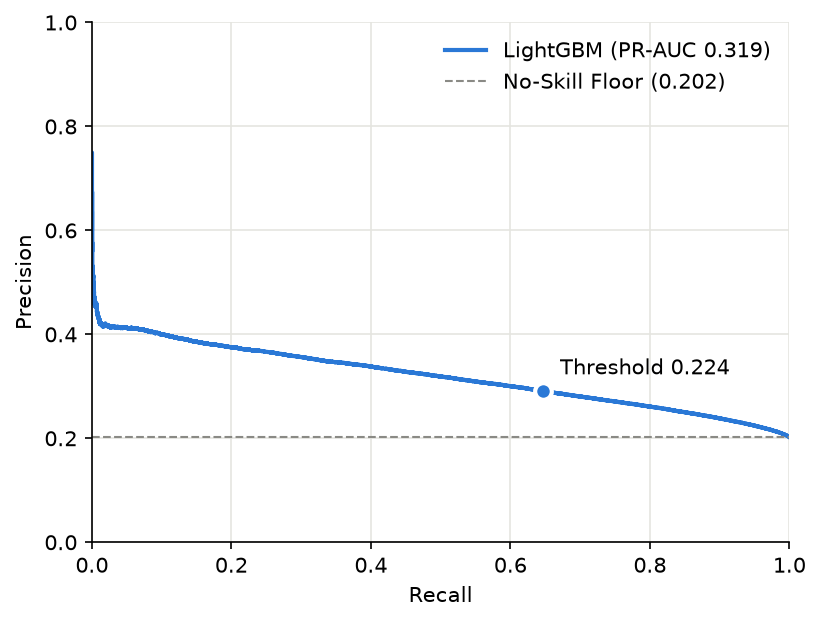
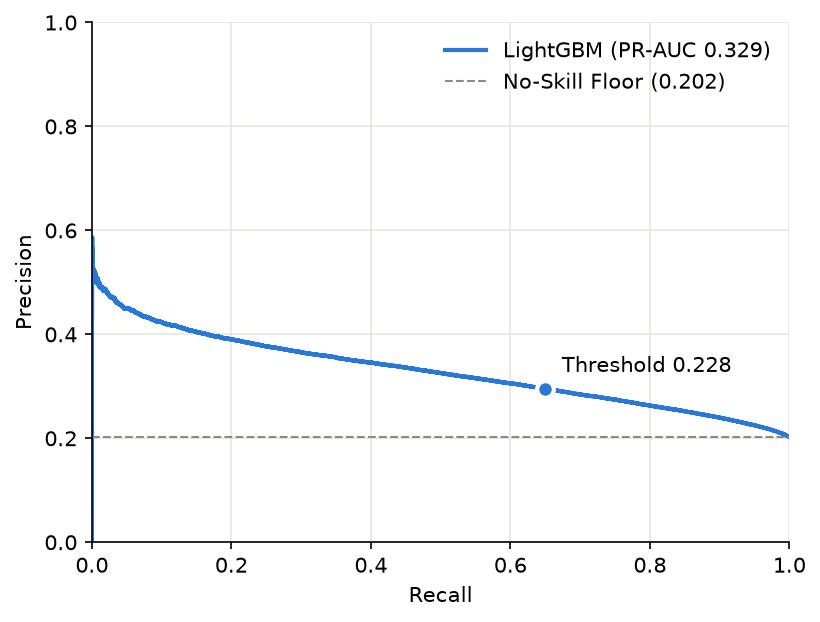
MOD-3: hyperopt results (90 trials), trial 26 final (val PR-AUC 0.329)

diff --git a/docs/findings.md b/docs/findings.md
@@ -18,10 +18,14 @@ scored yet (EVAL-4).
 | MOD-1 logistic regression | 0.315 | 1.56 | 0.393 | 0.3% |
 | MOD-2 XGBoost, default settings | 0.320 | 1.59 | 0.402 | 12.4% |
 | **MOD-2 XGBoost, tuned** | **0.332** | **1.64** | **0.407** | 8.3% |
+| MOD-3 LightGBM, default settings | 0.319 | 1.58 | 0.402 | 13.6% |
+| MOD-3 LightGBM, tuned | ⟨after search⟩ | ⟨after search⟩ | ⟨after search⟩ | ⟨after search⟩ |
 
 Sources: `reports/logistic_regression/mod1_metrics.json`,
 `git show 5363871:reports/xgboost/mod2_metrics.json` (default run),
-`reports/xgboost/mod2_metrics.json` (tuned). "× no-skill" is
+`reports/xgboost/mod2_metrics.json` (tuned),
+`git show 16fd05d:reports/lightgbm/mod3_metrics.json` (MOD-3 default run),
+`reports/lightgbm/mod3_metrics.json` (MOD-3 tuned). "× no-skill" is
 `pr_auc_over_floor`; the gap is train ÷ validation `pr_auc_over_floor` − 1.
 
 ---
@@ -207,10 +211,182 @@ All in `reports/xgboost/figures/`:
 
 ---
 
-## Experiments on MOD-2
+## MOD-3: LightGBM
 
-Filled in as each one is resolved.
+**Question:** with the same features, encoding, and splits as MOD-2, how does
+LightGBM compare with XGBoost in validation PR-AUC, F1, overfitting, and
+training time? Only the algorithm changes.
 
-- **EXP-7** (early stopping on PR-AUC instead of log loss): ⟨not run yet⟩
-- **EXP-8** (drop `DayofMonth`): ⟨not run yet⟩
-- **EXP-9** (ordinal vs. category time blocks): ⟨not run yet⟩
+### Setup
+
+Same as MOD-2: 13 base features, the same `encode()` (pandas `category`
+columns, validation re-coded to train's category list), train on Jul 2025 – Mar
+2026, score on validation, test not scored, early stopping on validation log
+loss after 50 rounds, tree cap 6,000. What differs:
+
+- **How trees grow.** XGBoost grows each tree level by level, so `max_depth`
+  sets its size. LightGBM grows **leaf by leaf**: it always splits the one leaf
+  that reduces the loss most, so trees can be deep and uneven. Size is set by
+  **`num_leaves`** instead; `max_depth` stays at −1 (no limit). For scale, MOD-2's
+  tuned depth of 5 allows at most 32 leaves, about LightGBM's default of 31.
+- **Minimum leaf size is a row count.** LightGBM's `min_child_samples` counts
+  rows per leaf. XGBoost's `min_child_weight` is a sum of hessians, p(1 − p) per
+  row, about 0.16 at our ~20% late rate, so the two are on different scales.
+- **No L2 penalty by default.** LightGBM's default `reg_lambda` is 0 (XGBoost's
+  is 1). MOD-2's search found that more L2 helped, so the default run starts with
+  none.
+- **Row sampling has to be switched on.** `subsample` does nothing unless
+  `subsample_freq` > 0, so `subsample_freq=1` (resample rows every tree) is a
+  fixed setting. With `subsample=1.0` the default run still uses every row.
+- **Early stopping is a callback.** `lgb.early_stopping(50)` is passed to
+  `fit()` and watches validation only (the training set in the eval list is
+  ignored for stopping; it is there to record train log loss).
+  `lgb.log_evaluation(100)` prints scores every 100 rounds. Eval sets are passed
+  as `eval_X`/`eval_y` because `eval_set` is deprecated in LightGBM 4.7.
+- **Tree counts are stored 0-based, like XGBoost.** LightGBM's
+  `best_iteration_` counts from 1 and XGBoost's from 0, so MOD-3's JSON stores
+  `best_iteration_ − 1`. For both models: trees kept = `best_iteration` + 1, and
+  `rounds_trained` = trees kept + 50 patience rounds. The model itself is not
+  changed; `predict_proba` still uses all kept trees.
+- **Training time** (`train_seconds`) times `fit()` only: not data loading,
+  scoring, or W&B logging. Both libraries use all CPU cores by default and also
+  compute train and validation log loss every round.
+- **Unseen airports (PRE-6, test only).** A LightGBM categorical split lists the
+  categories that go left; **everything else goes right, including missing
+  values**. XGBoost instead learns a default direction for missing values at
+  each split. LightGBM also stores train's category list and silently turns an
+  unseen label into missing, where XGBoost raises an error. Checked on a toy
+  model: a missing value and an unseen label `Z` both got the prediction of the
+  "everything else" side. MOD-3 still uses `encode()`, so both models get
+  identical input.
+
+### Step 1: default settings overfit about as much as XGBoost's
+
+LightGBM's defaults: `learning_rate` 0.1, `num_leaves` 31, `min_child_samples`
+20, `reg_lambda` 0, no row or column sampling, `max_cat_threshold` 32,
+`cat_smooth` 10.
+
+Validation log loss was lowest at **round 60** (0.47610). Training continued
+for the 50-round patience window and stopped after round 110. At round 100,
+train log loss was still falling (0.4908 → 0.4858) while validation had turned
+slightly up (0.47610 → 0.47634): the same overfitting shape as XGBoost's
+default, later because the learning rate is smaller (0.1 vs. 0.3).
+
+```
+train_logloss █▇▇▇▆▅▄▄▄▄▃▃▃▃▃▃▃▂▂▂▂▂▂▂▂▂▂▂▂▂▂▂▁▁▁▁▁▁▁▁   falls every round
+  val_logloss █▇▆▄▃▂▂▂▂▂▁▁▁▁▁▁▁▁▁▁▁▁▁▁▁▁▁▁▁▁▁▁▁▁▁▁▁▁▁▁   flattens; the rise after round 60 is too small to show
+```
+
+**Validation log loss below train does not mean "no overfitting".** It is 0.476
+vs. 0.491 only because April has fewer late flights (20.2% vs. 22.4%), the same
+effect as in EVAL-3. The `pr_auc_over_floor` gap, which adjusts for each split's
+late rate, is **13.6%**, slightly above XGBoost's default 12.4%.
+
+| | MOD-1 | MOD-2 default | MOD-3 default |
+|---|---|---|---|
+| Validation PR-AUC | 0.315 | 0.320 | 0.319 |
+| `pr_auc_over_floor` (validation) | 1.562 | 1.585 | 1.578 |
+| F1 | 0.393 | 0.402 | 0.402 |
+| Threshold | 0.233 | 0.222 | 0.224 |
+| Precision / recall | 0.288 / 0.621 | 0.290 / 0.656 | 0.291 / 0.647 |
+| `pr_auc_over_floor` train vs. validation | 1.567 / 1.562 | 1.782 / 1.585 | 1.793 / 1.578 |
+| Gap | 0.3% | 12.4% | 13.6% |
+| Trees kept | — | 18 | 60 |
+| Training time | — | not recorded | 8.5 s (110 rounds, 0.077 s/round) |
+
+Source: `git show 16fd05d:reports/lightgbm/mod3_metrics.json`, W&B run
+`xr932vla`.
+
+- **With defaults, the two libraries are tied** on PR-AUC (0.319 vs. 0.320) and
+  F1 (0.402 for both).
+- **As with MOD-2, the gap is not caused by too many trees.** Early stopping
+  already kept only the best 60. The fix has to come from the tree settings:
+  smaller trees, larger minimum leaf size, more L2. That is what the search
+  covers.
+
+### Step 2: hyperparameter search
+
+Hyperopt TPE, 90 trials (the same budget as MOD-2), maximizing validation
+PR-AUC. Each trial is logged to W&B as `MOD-3` with tag `hyperopt-trial`, and
+all trials are exported to `reports/lightgbm/mod3_trials.csv`. Same 7 settings
+as MOD-2, using LightGBM's equivalents and the same ranges where they exist:
+
+| Hyperparameter | Range searched | Best trial (#⟨n⟩) | Default |
+|---|---|---|---|
+| `learning_rate` | 0.02 – 0.3 (log) | ⟨⟩ | 0.1 |
+| `num_leaves` (replaces `max_depth`) | 15 – 255 (log, integer) | ⟨⟩ | 31 |
+| `min_child_samples` (replaces `min_child_weight`) | 20 – 2,000 (log, integer) | ⟨⟩ | 20 |
+| `subsample` | 0.5 – 1.0 | ⟨⟩ | 1.0 |
+| `colsample_bytree` | 0.5 – 1.0 | ⟨⟩ | 1.0 |
+| `reg_lambda` | 0.1 – 20 (log) | ⟨⟩ | 0 |
+| `max_cat_threshold` | 8 – 128 (step 8) | ⟨⟩ | 32 |
+
+`max_depth` (−1) and `cat_smooth` (10) stay at their defaults.
+
+**Why a log scale for `num_leaves` and `min_child_samples`:** their effect is
+relative. Going from 15 to 30 leaves changes the model far more than going from
+225 to 240. TPE starts with 20 random trials; on a uniform scale only about 6%
+of `num_leaves` draws fall in 15–30 (the size of MOD-2's best trees), and on a
+log scale about 25% do (checked on 2,000 draws).
+
+⟨After the search: what separated the 10 best trials from the 10 worst
+(medians, from `mod3_trials.csv`), when the best score was reached (plateau?),
+how many trials beat MOD-1 / MOD-3 default / MOD-2 tuned, the largest tree
+count (did any trial hit the 6,000 cap?).⟩
+
+### Step 3: the tuned model vs. XGBoost
+
+| | MOD-2 tuned | MOD-3 default | MOD-3 tuned |
+|---|---|---|---|
+| Validation PR-AUC | 0.332 | 0.319 | ⟨⟩ |
+| `pr_auc_over_floor` (validation) | 1.642 | 1.578 | ⟨⟩ |
+| F1 | 0.407 | 0.402 | ⟨⟩ |
+| Threshold | 0.229 | 0.224 | ⟨⟩ |
+| Precision / recall | 0.297 / 0.647 | 0.291 / 0.647 | ⟨⟩ |
+| `pr_auc_over_floor` train vs. validation | 1.778 / 1.642 | 1.793 / 1.578 | ⟨⟩ |
+| Gap | 8.3% | 13.6% | ⟨⟩ |
+| Trees kept | 345 | 60 | ⟨⟩ |
+| Training time | ⟨XGBoost timing re-run⟩ | 8.5 s | ⟨⟩ |
+| Seconds per round | ⟨⟩ | 0.077 | ⟨⟩ |
+
+⟨After the search: did tuning help as much as for XGBoost; did the gap shrink
+because validation improved or train got worse; which settings mattered; the
+verdict on score and speed, and which model the experiments (EXP-2, EXP-4) and
+EVAL-5 use.⟩
+
+### Caveats
+
+- Hyperparameters, early stopping, and the threshold were all chosen on
+  validation, so validation scores are optimistic. The test split (EVAL-4) is
+  the unbiased comparison.
+- Training times come from one machine, using all cores, with train and
+  validation log loss computed every round for both models. Compare seconds per
+  round as well as total time, since the two models stop at different rounds.
+- MOD-2 has no timed run yet; the speed comparison needs MOD-2's final
+  configuration re-run with the same timer.
+
+### Figures
+
+All in `reports/lightgbm/figures/`:
+
+- `mod3_default_train_logloss.png`, `mod3_default_val_logloss.png`: the default
+  run's curves (W&B panels). As with MOD-2, validation sits below train only
+  because April has fewer late flights: read the shape, not the level.
+- ⟨After the search: `mod3_val_logloss_default_vs_tuned.png` (main slide),
+  `mod3_parallel_coordinates.png`, `mod3_tuned_train_logloss.png`,
+  `mod3_tuned_val_logloss.png`, and `mod3_pr_curve.png` / `mod3_thresholds.png`
+  for the tuned model. The committed `mod3_pr_curve.png` / `mod3_thresholds.png`
+  are from the default run and will be overwritten by the final run.⟩
+
+---
+
+## Experiments
+
+Filled in as each one is resolved. In scope for the course: **EXP-4**
+(historical late-rate feature, on logistic regression and the best tree model)
+and **EXP-2** (full-year training data, on the best tree model with its tuned
+settings fixed). EXP-7, EXP-8, and EXP-9 (the single-run XGBoost follow-ups) are
+deferred to the Future work section of `OPEN-ISSUES.md`.
+
+- **EXP-4** (historical late-rate feature): ⟨not run yet⟩
+- **EXP-2** (full-year training data): ⟨not run yet⟩
